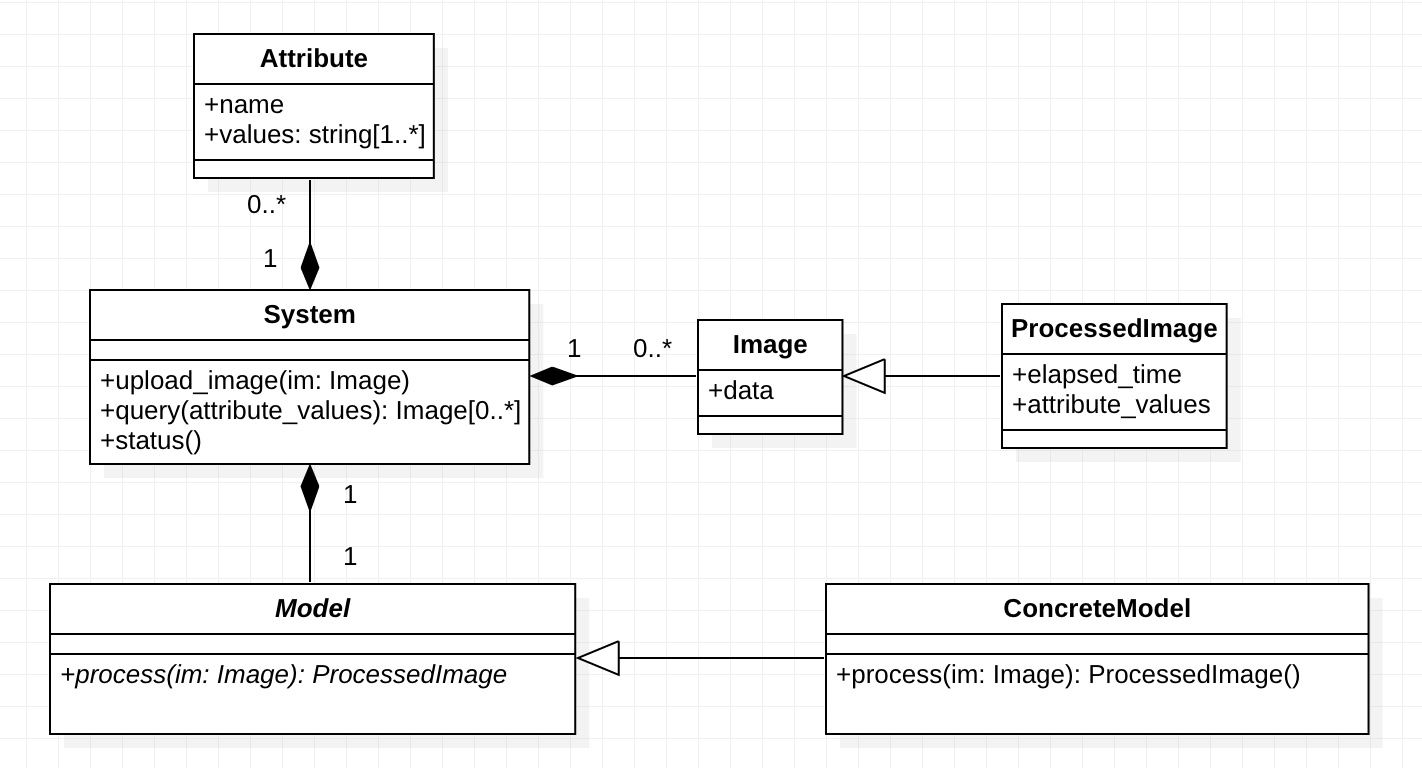
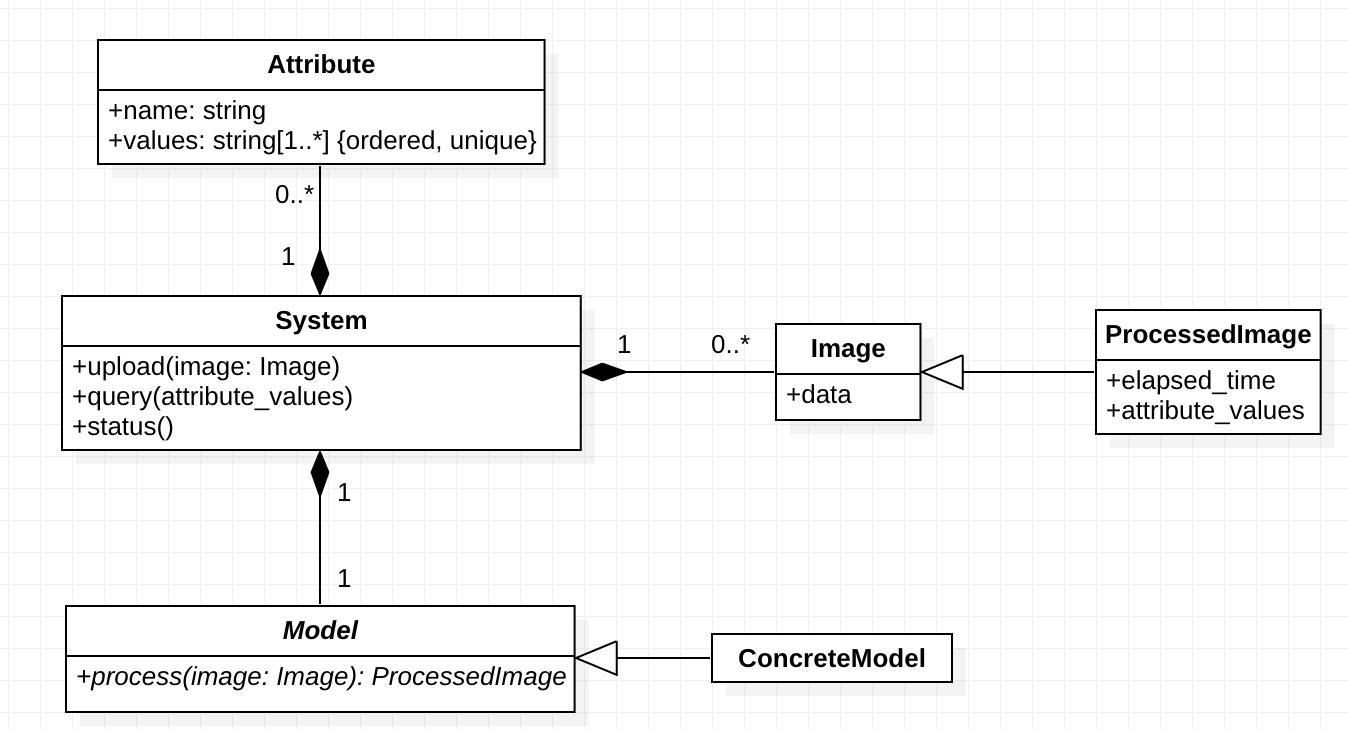
Update analysis.

diff --git a/doc/3.analysis.md b/doc/3.analysis.md
@@ -14,7 +14,7 @@
 * `Image` - изображение
     * `data: blob not null` - данные изображения
 * `ProcessedImage` - обработанное изображение
-    * `elapsedSeconds: real not null` - время (в секундах) затраченное на обработку.
+    * `elapsedTime: real not null` - время (в секундах) затраченное на обработку.
 
 ### Дополнительные ограничения
 
